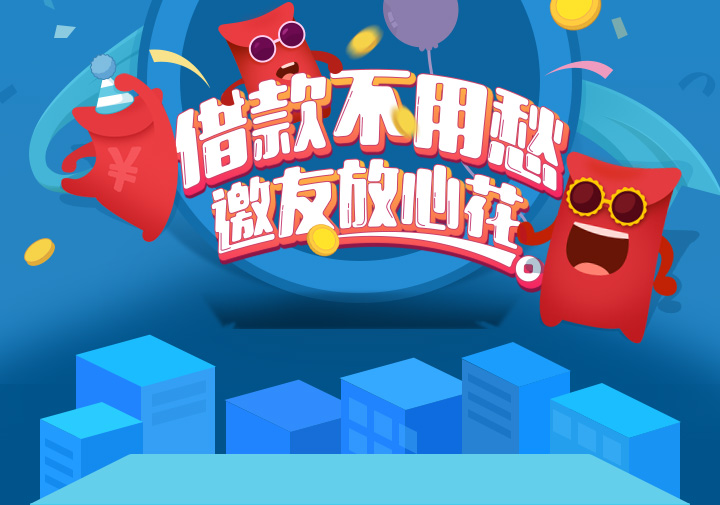
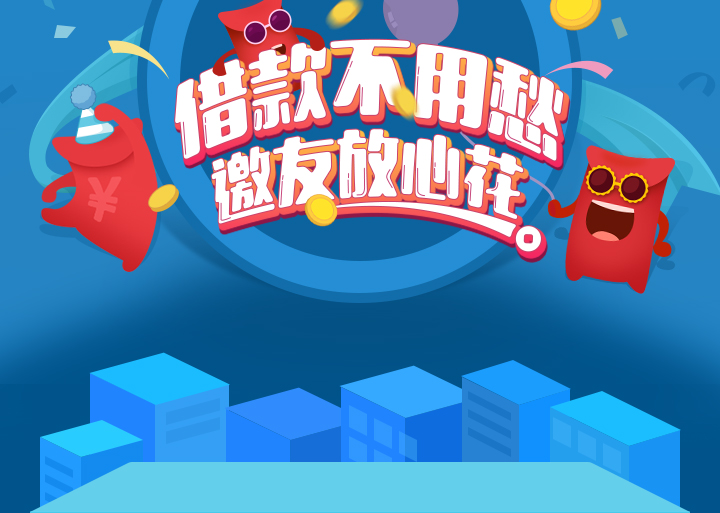
update

diff --git a/apps/loan/weixin-invite/less/index.less b/apps/loan/weixin-invite/less/index.less
@@ -33,8 +33,8 @@ img{
 }
 .invite-bg{
   width:720px;
-  height:242px;
-  padding-top:263px;
+  height:269px;
+  padding-top:244px;
   background:url(../images/invite-bg.jpg) no-repeat;
   margin:0 auto;
 }
@@ -54,6 +54,26 @@ img{
   color:#9d3000;
   text-align:center;
   margin:0 auto;
+  display:none;
+}
+.copy-link{
+  background:url(../images/copy-bg.png) no-repeat;
+  background-size:100% 100%;
+  width:600px;
+  height:109px;
+  margin:0 auto;
+}
+.top-tip{
+  font-size:20px;
+  line-height:45px;
+  color:#d06700;
+  padding-left:65px;
+}
+.btm-tip{
+  font-size:20px;
+  color:#f6930f;
+  line-height:43px;
+  text-align:center;
 }
 .tabs{
   width:480px;

diff --git a/apps/loan/weixin-invite/react/index.jsx b/apps/loan/weixin-invite/react/index.jsx
@@ -17,6 +17,16 @@ $FW.DOMReady(function () {
         $(this).hide();
     });
 
+    $FW.Post(`${API_PATH}api/shareTemplate/v1/getContent.json`,{
+        templateType:1,
+        userGid: USER.gid,
+        userId: USER.id,
+        token: USER.token,
+        sourceType: SOURCE_TYPE
+    }).then((data)=>{
+        $(".btm-tip").text(data.shareTemplate.templateUrl);
+    });
+
     function loadMoreHandler(done) {
         if (loadNextPage) {
             $FW.Post(`${API_PATH}api/userBase/v1/invitationRecord.json`, {

diff --git a/apps/loan/weixin-invite/index.html b/apps/loan/weixin-invite/index.html
@@ -3,6 +3,10 @@
 {% block content %}
 <div class="invite-bg">
     <div class="get-btn">立即分享</div>
+    <div class="copy-link">
+        <div class="top-tip">长按复制链接分享给好友</div>
+        <div class="btm-tip"></div>
+    </div>
     <div class="tabs">
         <span class="rule-btn selected"></span>
         <span class="invite-btn"></span>
